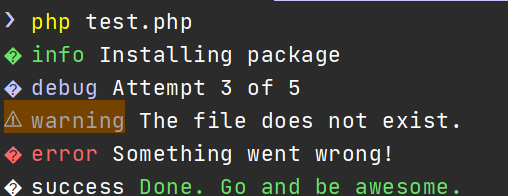
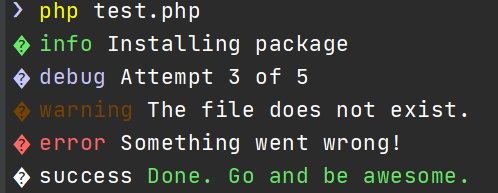
Fix mute default value

Changed region(s): [[0.0, 0.0, 0.9337, 0.8394], [0.0, 0.8705, 0.9337, 1.0], [0.5422, 0.0, 1.0, 0.0311]]

diff --git a/src/Clara.php b/src/Clara.php
@@ -9,7 +9,7 @@ use Symfony\Component\Console\Output\ConsoleOutput;
  */
 class Clara
 {
-    public static $CLARA_ON = false;
+    public static $CLARA_ON = true;
 
     public static function success($output)
     {
@@ -28,7 +28,7 @@ class Clara
 
     public static function warn($output)
     {
-        return static::output("<fg=yellow>⚠ warning</> {$output}");
+        return static::output("<fg=yellow>🚸 warning</> {$output}");
     }
 
     public static function error($output)
